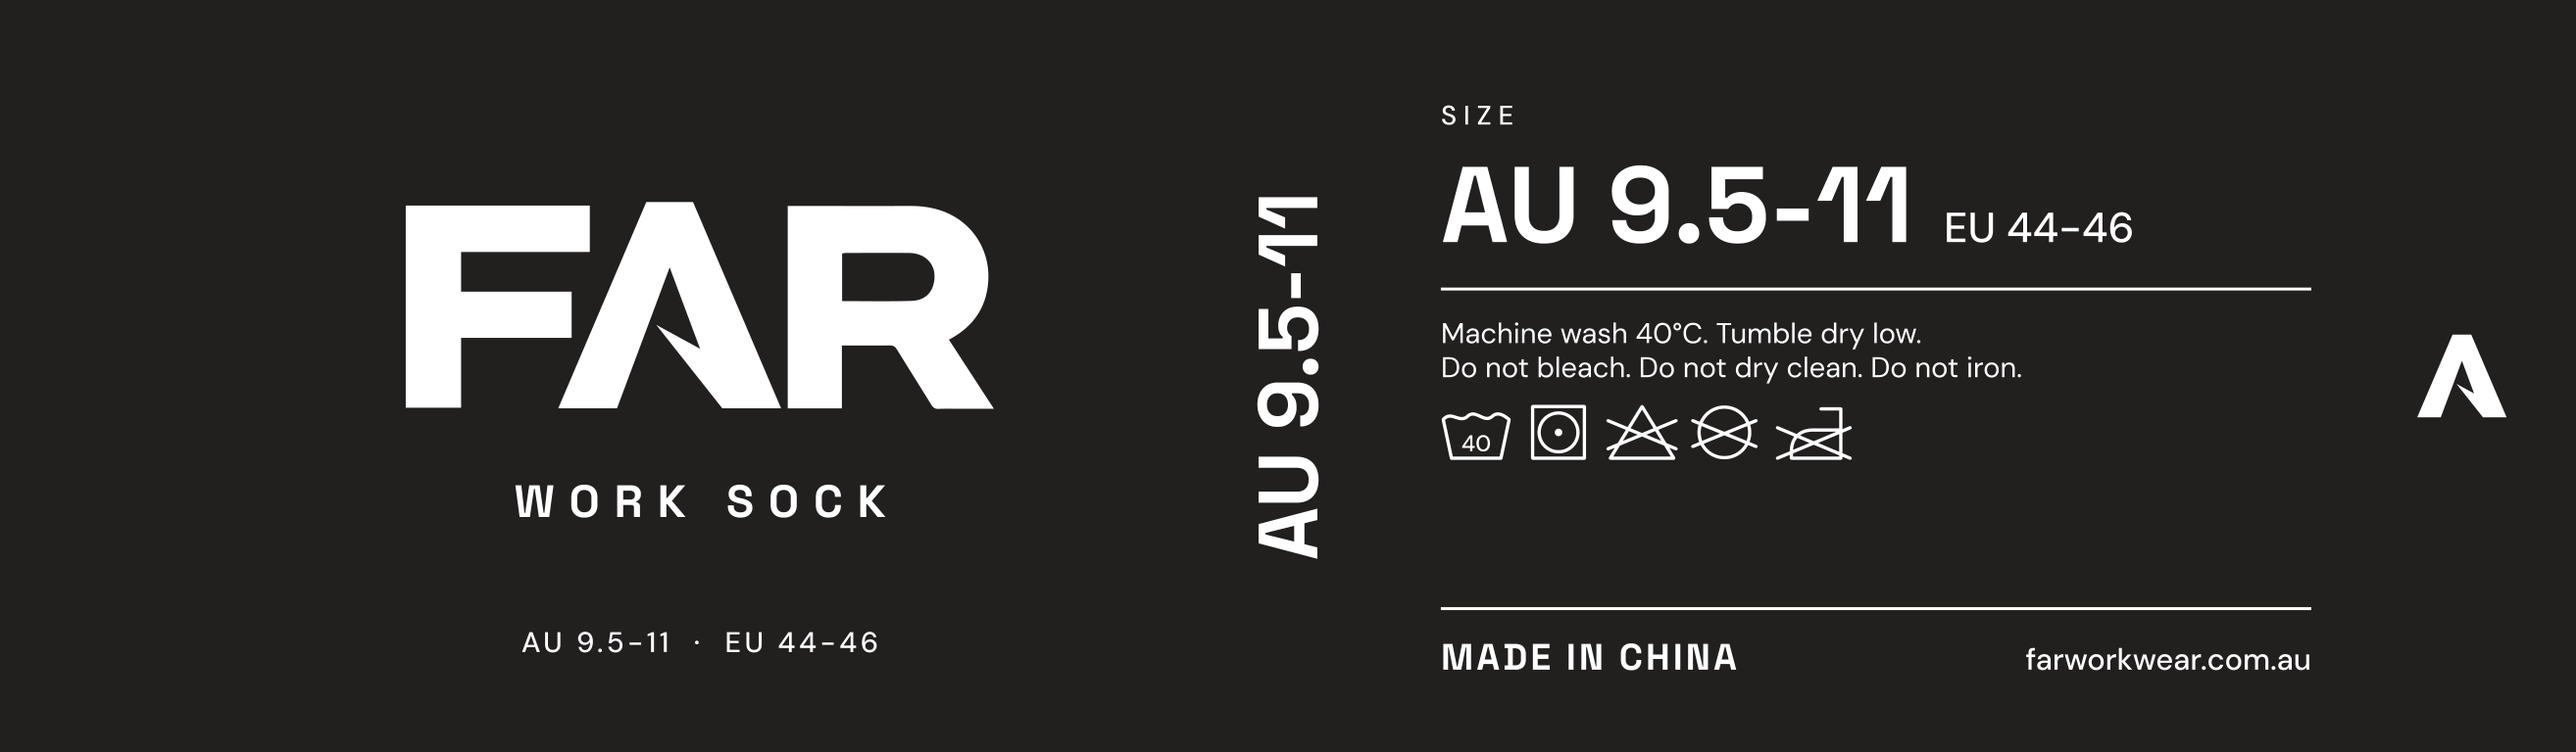
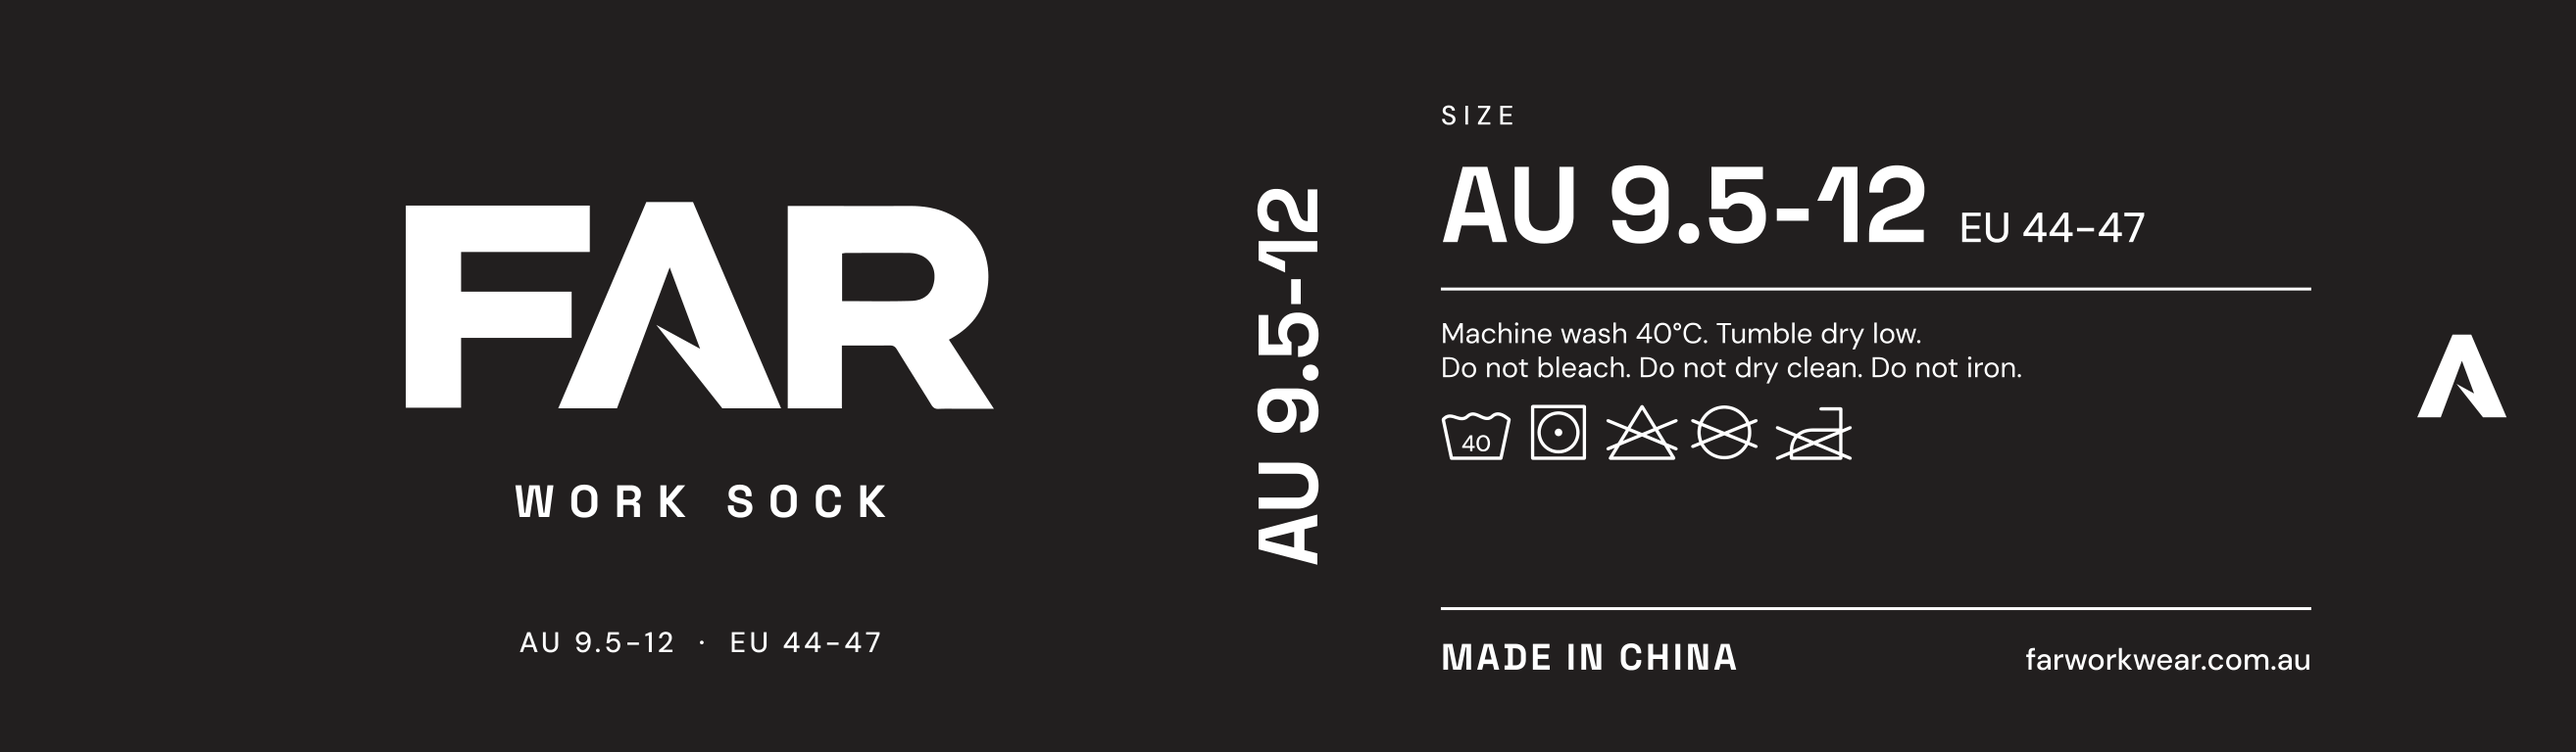
Sock band: AU 12s in 10-13, 100 spares (S1305)

diff --git a/far-sock-band-q4n8.html b/far-sock-band-q4n8.html
@@ -32,11 +32,11 @@
 
 <h2>The three bands</h2>
 <img src="far-sock-band-q4n8-a.png" alt="Sock band for boot sizes AU 7 to 9">
-<p class="cap">Band A: boots AU 7-9 (EU 41-43). 85 pairs.</p>
-<img src="far-sock-band-q4n8-b.png" alt="Sock band for boot sizes AU 9.5 to 11">
-<p class="cap">Band B: boots AU 9.5-11 (EU 44-46). 295 pairs.</p>
-<img src="far-sock-band-q4n8-c.png" alt="Sock band for boot sizes AU 12 to 14">
-<p class="cap">Band C: boots AU 12-14 (EU 47-49). 120 pairs.</p>
+<p class="cap">Band A: boots AU 7-9 (EU 41-43). 85 pairs for the boxes + 17 spares.</p>
+<img src="far-sock-band-q4n8-b.png" alt="Sock band for boot sizes AU 9.5 to 12">
+<p class="cap">Band B: boots AU 9.5-12 (EU 44-47). 380 pairs for the boxes + 76 spares.</p>
+<img src="far-sock-band-q4n8-c.png" alt="Sock band for boot sizes AU 13 to 14">
+<p class="cap">Band C: boots AU 13-14 (EU 48-49). 35 pairs for the boxes + 7 spares.</p>
 
 <p>Left to right: a glue strip that gets covered, the front, the side, the back, and a tuck flap with the A on it. The front says FAR, WORK SOCK and the size. The side shows the size in big letters so the packers can read it in a carton. The back has the size, the washing instructions (the law says socks have to carry them), Made in China and the website. The washing symbols are the five on the template Mary linked: wash at 40, tumble dry low, no bleach, no dry cleaning, no ironing. The strip on the far left gets covered when the band closes, so it's left blank.</p>
 <p>It's one colour, black, printed on white card. That's the cheapest print job there is, and it matches the black box.</p>
@@ -53,14 +53,16 @@
 <tr><th></th><th>Per pair</th><th class="n">All 500</th></tr>
 <tr><td>In our budget since 5 Oct</td><td>$8.34</td><td class="n">$4,170</td></tr>
 <tr><td>Mary's invoice, as sent</td><td>$9.12</td><td class="n">$4,559</td></tr>
-<tr><td>If she drops the $50 US shipping and the AU 12s go in the middle sock</td><td>$8.73</td><td class="n">$4,365</td></tr>
+<tr><td>What we're ordering: AU 12s in the middle sock, and asking her to drop the $50 US shipping</td><td>$8.73</td><td class="n">$4,365</td></tr>
+<tr><td>Plus 100 spares, flown to us (her price includes freight, customs and tax)</td><td>$9.66</td><td class="n">$966</td></tr>
 </table>
 <p>That's Australian dollars at the rate the bank gave us on the boot deposit. The bigger sock (13-15) costs a US dollar more a pair, plus a one-off $100 US for a new mould.</p>
 <p><b>The sock was already in every box in the budget.</b> Socks went on the box list at the 4 Oct meeting, and the "what's left per pair" numbers already take the sock out: about $103 a pair on the first 100 at $219, and about $130 a pair after that at $249. Mary's real price moves that by 39 to 78 cents a pair.</p>
 <p>For comparison, a decent work sock costs $18 to $45 a pair in the shops.</p>
 
 <h2>Still to sort</h2>
-<div class="rec"><b>AU 12s in the middle sock or the big one?</b> <span class="who">Fil</span><br>Mary put the AU 12 boots (85 pairs) in her new big size, 13-15. Fil is an AU 12, and the 10-13 sample was great on him. If the AU 12s go in the 10-13, 85 more pairs get the sock we've actually tested, only 35 pairs ride on the brand new mould, and it saves $85 US.</div>
+<div class="rec"><b>Decided: the AU 12s go in the middle sock.</b> <span class="who">Fil</span><br>Mary put the AU 12 boots (85 pairs) in her new big size, 13-15. Fil is an AU 12 and the 10-13 fits him well, so they move to the 10-13. 85 more pairs get the sock we've actually tested, only 35 pairs ride on the brand new mould, and it saves $85 US.</div>
+<div class="rec"><b>Decided: 100 spare pairs.</b> <span class="who">Fil</span><br>Same price per pair as the 500. They fly straight to us in about a week, so they're here well before the boots. Two jobs: handing them out, and selling extra pairs as an add-on with the boots. What we charge for an extra pair is still to decide.</div>
 <div class="rec"><b>The $50 US shipping.</b> Mary said in writing on 23 Sep that CJ pays the freight to the boot factory. The email asks her to take it off.</div>
 <div class="rec"><b>Fibre content.</b> She's dodged the exact fibre mix three times. The band doesn't need it by law, so if she doesn't answer, it stays off. We never write "bamboo" on anything.</div>
 <div class="rec"><b>The new 13-15 size has never been made.</b> We ask for a photo of the first pair next to a 10-13, with a ruler, before she knits the lot.</div>
